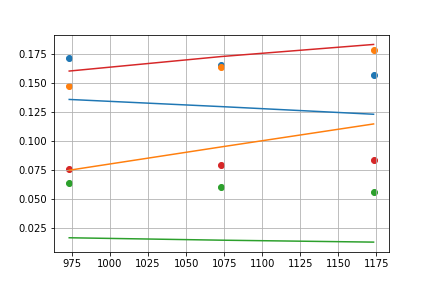
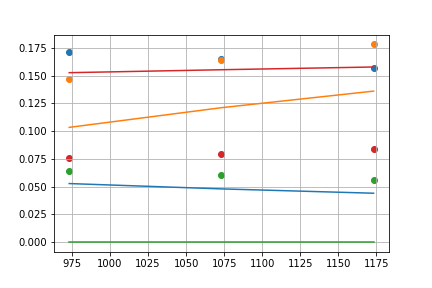
Added new fuel to DB - Altafini 2003

Changed region(s): [[0.0301, 0.125, 0.9028, 0.875]]

diff --git a/gasifier2.py b/gasifier2.py
@@ -564,7 +564,7 @@ def cogasifier(fuel1, fuel2, mass=1.0, blend=0.5, moist=(0.0,0.0), T=1273.15,
     return report
 
 def findTquasi(fuelID, experimental, mass=1.0, moist=0.0, T0=1273.15, P=ct.one_atm, 
-                air=0.5, stm=0.0, airType='ER', stmType='SR',
+                air=0.5, stm=0.0, airType='ER', stmType='SR', C_avail=1.0,
                 species=['C(gr)','N2','O2','H2','CO','CH4','CO2','H2O']):
     '''
     Finds the quasi-equilibrium temperature for a given gasification condition.
@@ -610,7 +610,7 @@ def findTquasi(fuelID, experimental, mass=1.0, moist=0.0, T0=1273.15, P=ct.one_a
         err = 0
         predicted = np.zeros(len(species))
         report = gasifier(fuelID, mass=mass, moist=moist, T=T, P=P, air=air, 
-                 stm=stm, airType=airType, stmType=stmType, isot=True, species=species)
+                 stm=stm, airType=airType, stmType=stmType, C_avail=C_avail, isot=True, species=species)
         for i, sp in enumerate(species):
             predicted[i] = report[sp]
             err += (predicted[i] - experimental[i])**2
@@ -621,23 +621,25 @@ def findTquasi(fuelID, experimental, mass=1.0, moist=0.0, T0=1273.15, P=ct.one_a
     sqerr = error(Tquasi)
     return Tquasi, sqerr
 
-def findC_unav(fuelID, experimental, mass=1.0, moist=0.0, T0=1273.15, P=ct.one_atm, 
+def findParams(fuelID, experimental, mass=1.0, moist=0.0, T0=1273.15, P=ct.one_atm, 
                 air=0.5, stm=0.0, airType='ER', stmType='SR',
                 species=['C(gr)','N2','O2','H2','CO','CH4','CO2','H2O']):
-    def error(C_unav):
+     # Defining objective function
+    def error(X):
+        Tquasi, C_avail = X
         err = 0
         predicted = np.zeros(len(species))
-        report = gasifier(fuelID, mass=mass, moist=moist, T=T, P=P, air=air, 
-                 stm=stm, airType=airType, stmType=stmType, isot=True, species=species)
+        report = gasifier(fuelID, mass=mass, moist=moist, T=Tquasi, P=P, air=air, 
+                 stm=stm, airType=airType, stmType=stmType, C_avail=C_avail, isot=True, species=species)
         for i, sp in enumerate(species):
             predicted[i] = report[sp]
             err += (predicted[i] - experimental[i])**2
         return err
     
     # Applying minimize
-    Tquasi = opt.minimize(error, T0).x[0]
-    sqerr = error(Tquasi)
-    return Tquasi, sqerr
+    Tquasi, C_avail = opt.minimize(error, [T0, 0.5]).x
+    sqerr = error([Tquasi, C_avail])
+    return Tquasi, C_avail, sqerr
 
 # def oneToOne(conditions):
 #     '''
